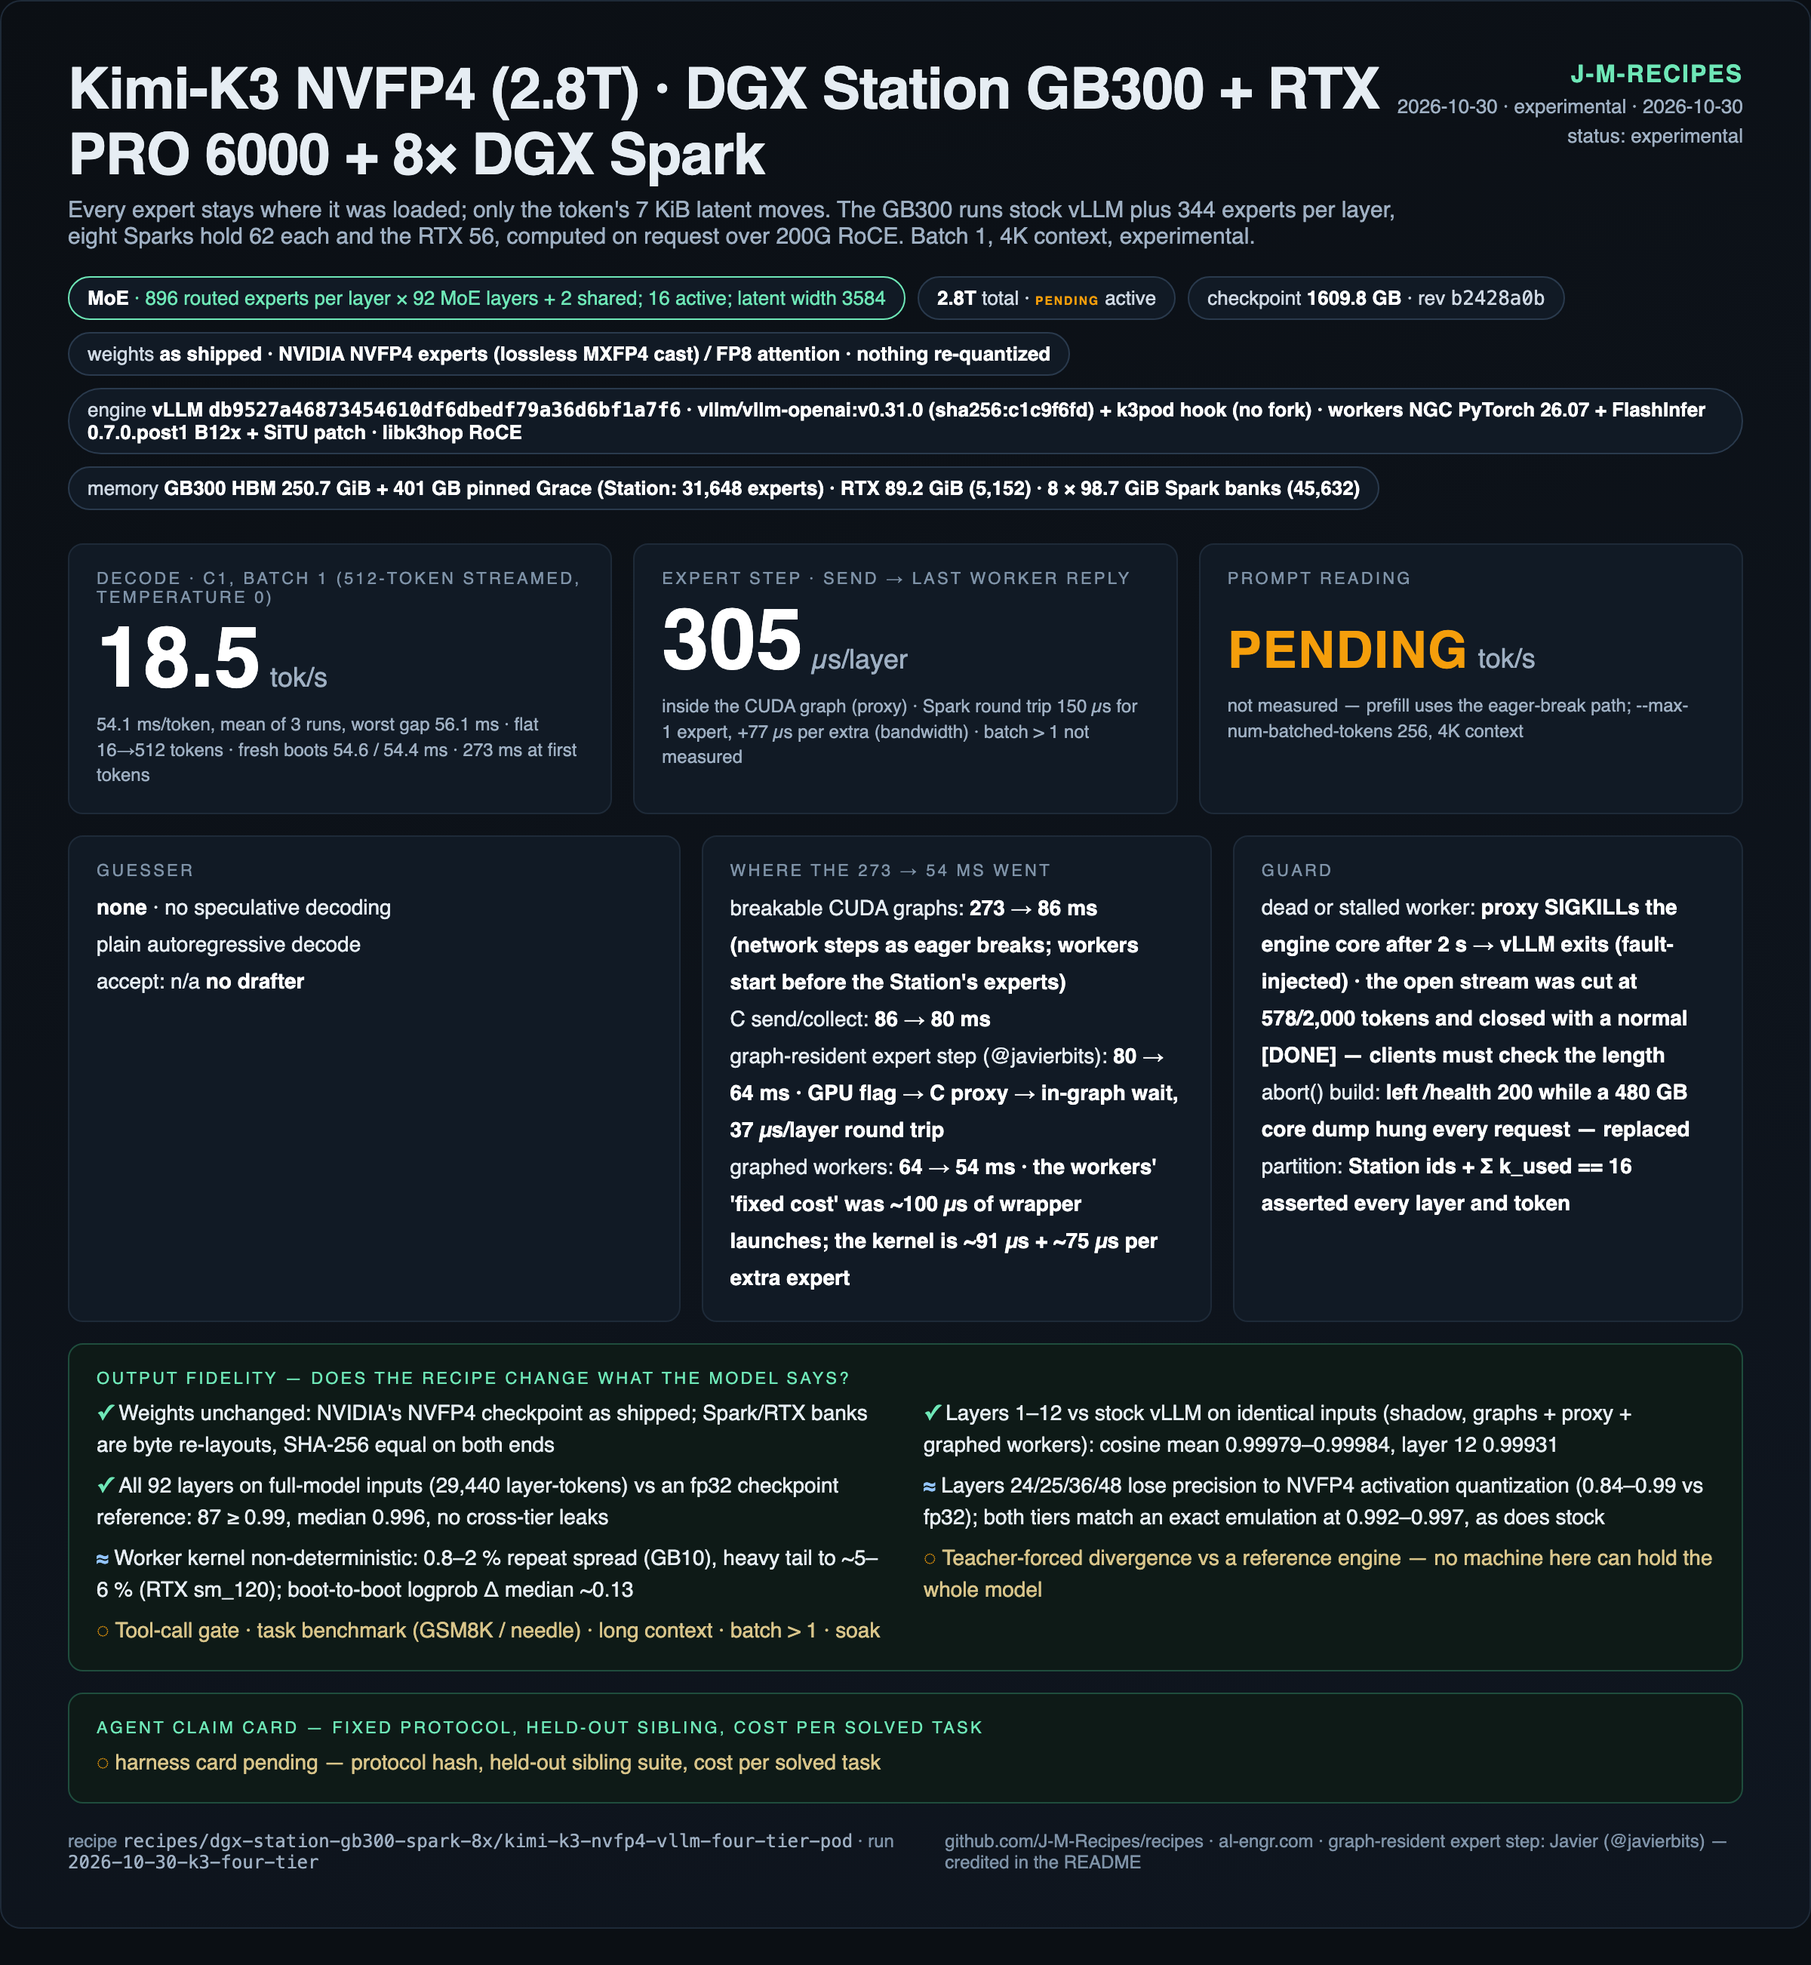
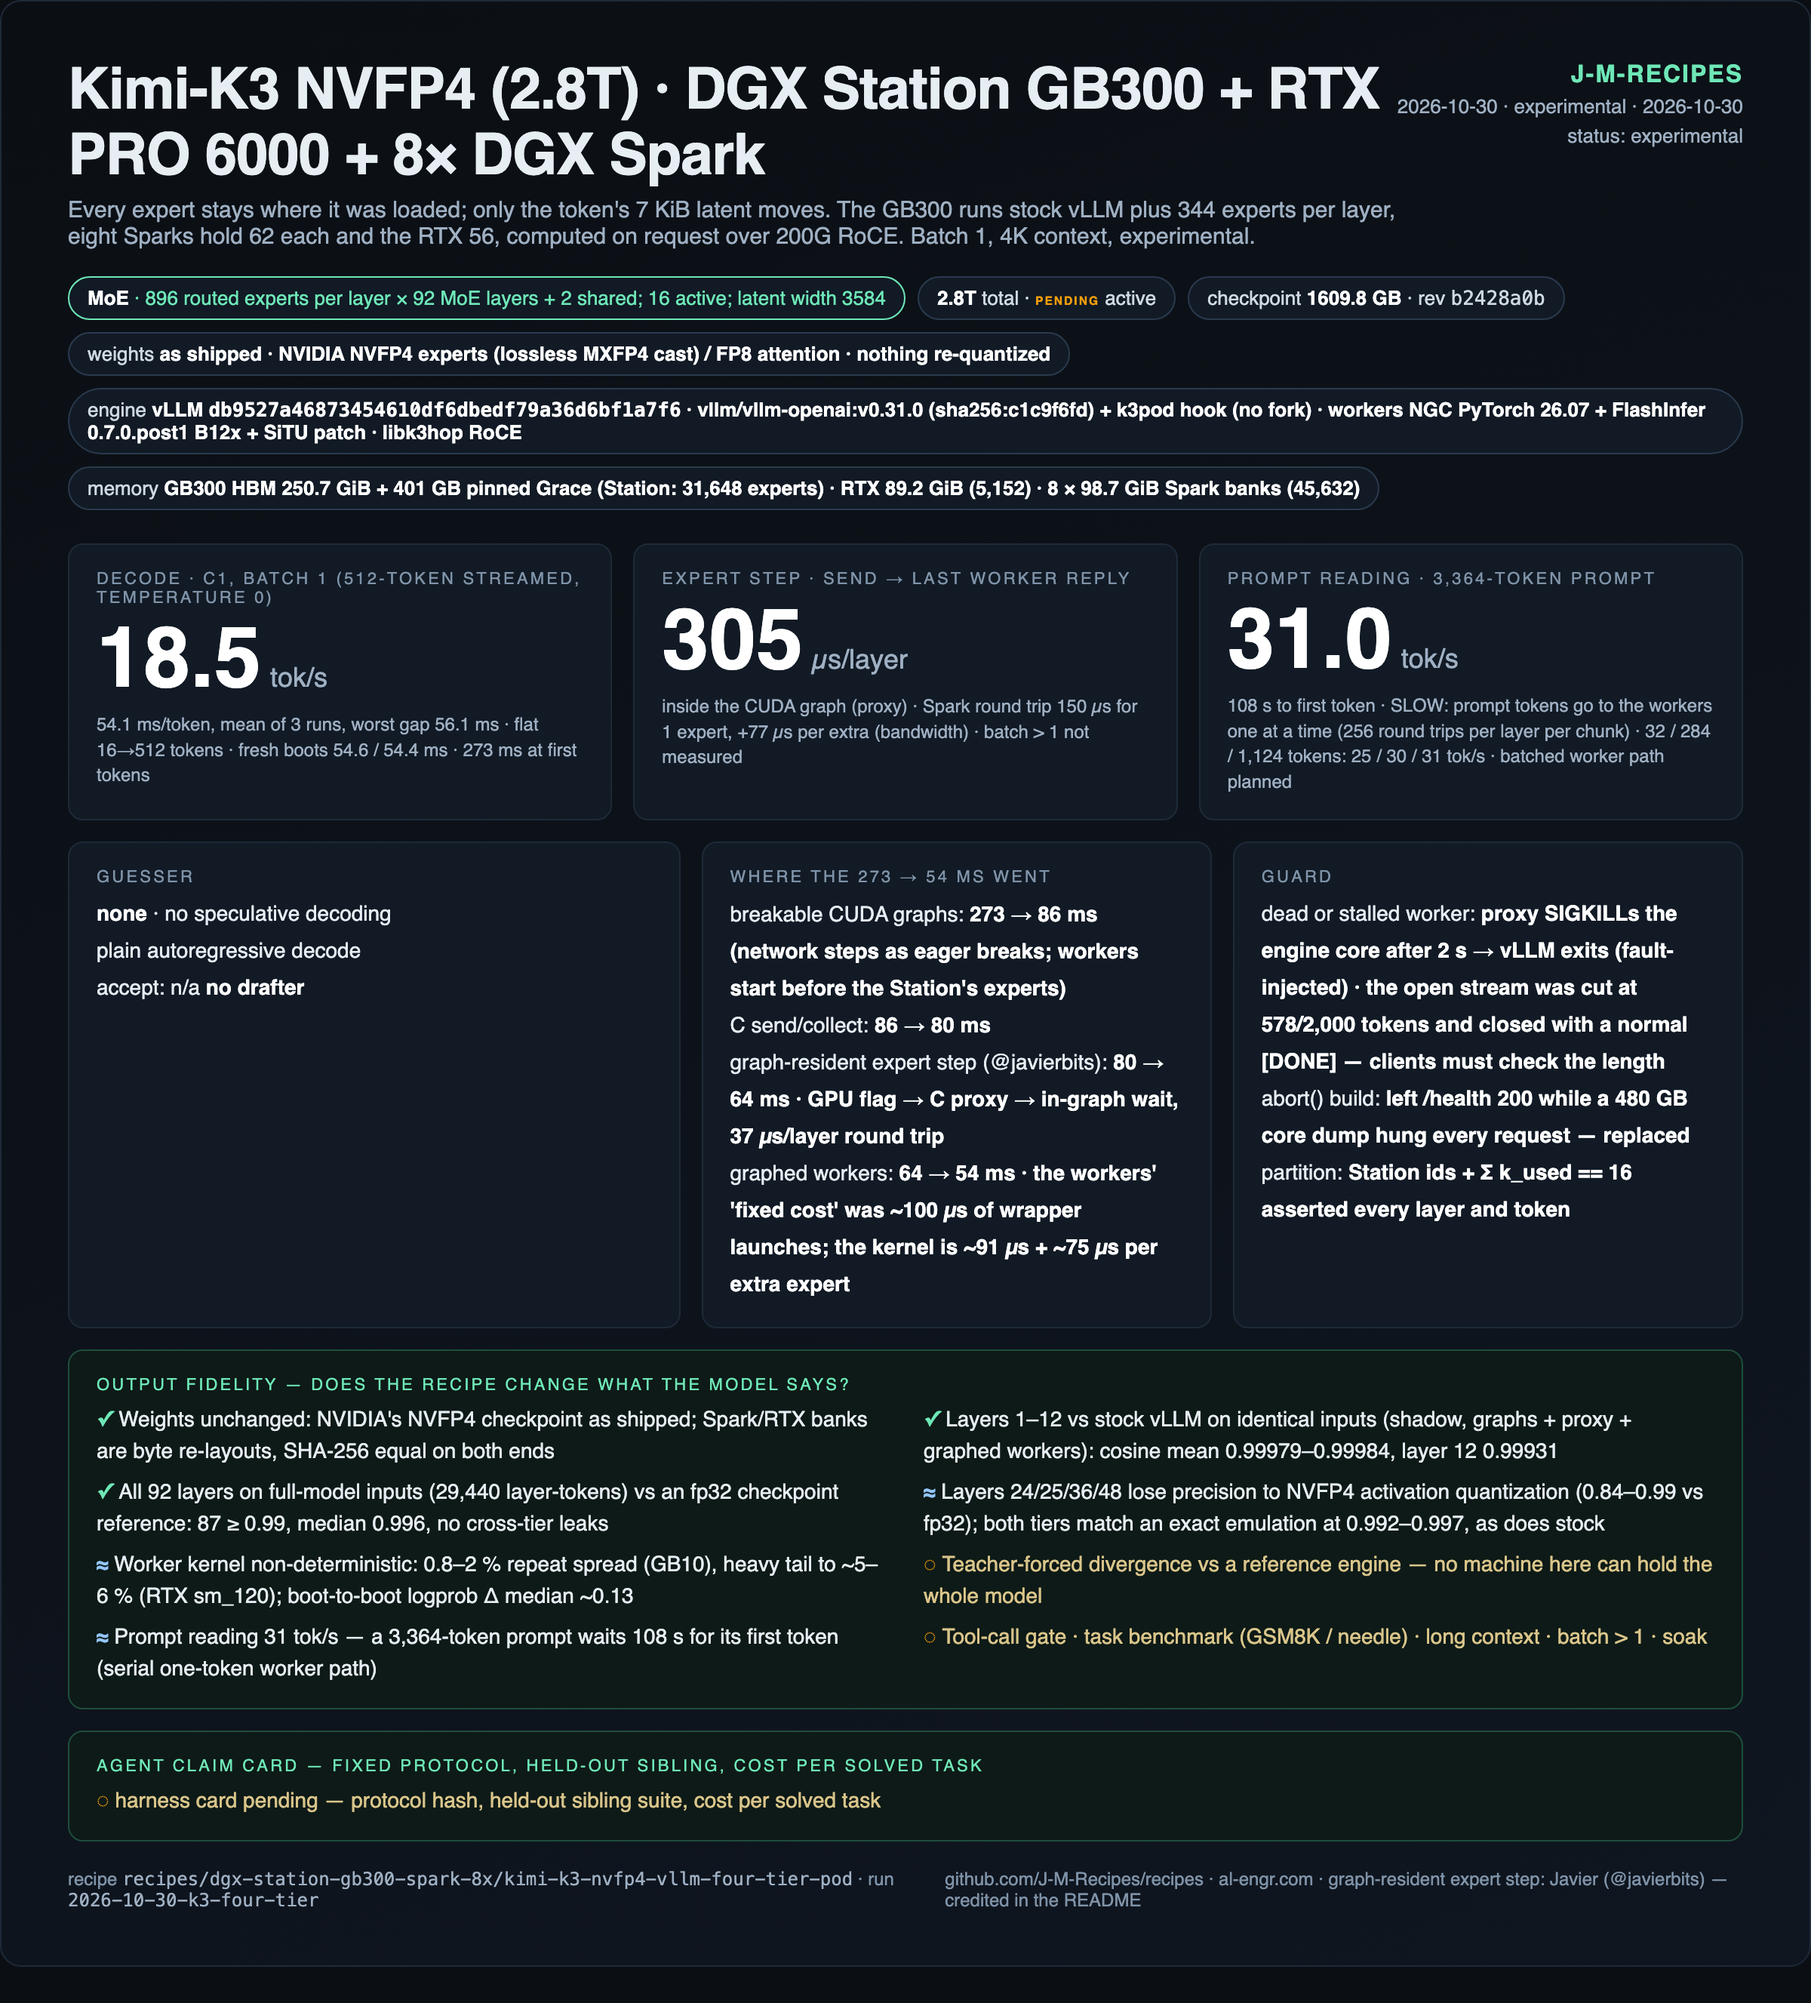
kimi-k3 four-tier: measure prompt reading (31 tok/s; 3,364-token prompt 108 s TTFT) and explain the one-token worker path

diff --git a/recipes/dgx-station-gb300-spark-8x/kimi-k3-nvfp4-vllm-four-tier-pod/card.html b/recipes/dgx-station-gb300-spark-8x/kimi-k3-nvfp4-vllm-four-tier-pod/card.html
@@ -59,7 +59,7 @@
   <div class="grid">
 <div class="box"><div class="lbl">Decode · C1, batch 1 (512-token streamed, temperature 0)</div><div class="hero">18.5<small>tok/s</small></div><div class="note">54.1 ms/token, mean of 3 runs, worst gap 56.1 ms · flat 16→512 tokens · fresh boots 54.6 / 54.4 ms · 273 ms at first tokens</div></div>
 <div class="box"><div class="lbl">Expert step · send → last worker reply</div><div class="hero">305<small>µs/layer</small></div><div class="note">inside the CUDA graph (proxy) · Spark round trip 150 µs for 1 expert, +77 µs per extra (bandwidth) · batch &gt; 1 not measured</div></div>
-<div class="box"><div class="lbl">Prompt reading</div><div class="hero"><span class="pend-inline">PENDING</span><small>tok/s</small></div><div class="note">not measured — prefill uses the eager-break path; --max-num-batched-tokens 256, 4K context</div></div>
+<div class="box"><div class="lbl">Prompt reading · 3,364-token prompt</div><div class="hero">31.0<small>tok/s</small></div><div class="note">108 s to first token · SLOW: prompt tokens go to the workers one at a time (256 round trips per layer per chunk) · 32 / 284 / 1,124 tokens: 25 / 30 / 31 tok/s · batched worker path planned</div></div>
   </div>
   <div class="row2">
 <div class="box"><div class="lbl">Guesser</div><div class="kv"><b>none</b> · no speculative decoding<br>plain autoregressive decode<br><span class="acc">accept: <span>n/a <b>no drafter</b></span></span></div></div>
@@ -74,6 +74,7 @@
 <li class="meas">Layers 24/25/36/48 lose precision to NVFP4 activation quantization (0.84–0.99 vs fp32); both tiers match an exact emulation at 0.992–0.997, as does stock</li>
 <li class="meas">Worker kernel non-deterministic: 0.8–2 % repeat spread (GB10), heavy tail to ~5–6 % (RTX sm_120); boot-to-boot logprob Δ median ~0.13</li>
 <li class="pend">Teacher-forced divergence vs a reference engine — no machine here can hold the whole model</li>
+<li class="meas">Prompt reading 31 tok/s — a 3,364-token prompt waits 108 s for its first token (serial one-token worker path)</li>
 <li class="pend">Tool-call gate · task benchmark (GSM8K / needle) · long context · batch &gt; 1 · soak</li>
     </ul>
   </div>

diff --git a/recipes/dgx-station-gb300-spark-8x/kimi-k3-nvfp4-vllm-four-tier-pod/scripts/check/prefill_bench.py b/recipes/dgx-station-gb300-spark-8x/kimi-k3-nvfp4-vllm-four-tier-pod/scripts/check/prefill_bench.py
@@ -1,0 +1,16 @@
+import json, sys, time, urllib.request
+URL = "http://127.0.0.1:%s/v1/completions" % sys.argv[1]
+base = "The transistor was invented at Bell Labs in 1947 by Bardeen, Brattain and Shockley, and it changed electronics forever. "
+res = []
+for reps in (1, 10, 40, 120):
+    runs = []
+    for r in range(3):
+        p = base * reps + "Summarize: "
+        b = json.dumps({"model": "k3", "prompt": p, "max_tokens": 1, "temperature": 0}).encode()
+        t0 = time.time()
+        d = json.load(urllib.request.urlopen(urllib.request.Request(URL, b, {"Content-Type": "application/json"}), timeout=900))
+        runs.append(time.time() - t0); n = d["usage"]["prompt_tokens"]
+    m = sorted(runs)[1]
+    res.append({"prompt_tokens": n, "ttft_s": runs, "median_s": m, "tok_per_s": n / m})
+    print(f"prompt {n:5d} tok: TTFT median {m:7.2f} s -> {n/m:6.1f} tok/s  runs " + " ".join(f"{t:.2f}" for t in runs), flush=True)
+json.dump(res, open("./prefill-n93.json", "w"), indent=1)

diff --git a/recipes/dgx-station-gb300-spark-8x/kimi-k3-nvfp4-vllm-four-tier-pod/README.md b/recipes/dgx-station-gb300-spark-8x/kimi-k3-nvfp4-vllm-four-tier-pod/README.md
@@ -1,6 +1,7 @@
 # Kimi-K3 NVFP4 across four memory tiers — DGX Station GB300 + RTX PRO 6000 + 8× DGX Spark
 
 **Status: experimental (2026-10-30).** Batch-1 decode at **18.5 tok/s** (54.1 ms/token, flat 16→512 tokens).
+Prompt reading is slow: **31 tok/s** (a 3,364-token prompt waits 108 s for its first token).
 Every MoE layer checked against the checkpoint; no model-level quality gate yet (see [Known limits](#known-limits)).
 
 ![card](card.png)
@@ -100,6 +101,7 @@ GB300_UUID=GPU-... MODEL_DIR=/models/kimi-k3/nvidia-nvfp4-b2428a0b bash scripts/
 ```bash
 python3 scripts/check/k3pod_probe.py 30023 probe.json        # 3 greedy prompts, coherent text
 python3 scripts/check/bench.py 30023 128 3                    # expect ~54-55 ms/token
+python3 scripts/check/prefill_bench.py 30023                  # prompt reading; expect ~31 tok/s (this version)
 docker logs k3-pod-n93 2>&1 | grep "proxy:"                   # 'mean proxy work ~305 us' per layer
 ```
 
@@ -131,6 +133,7 @@ Run `2026-10-30-k3-four-tier`, reference box, `--max-num-seqs 1`, `--max-model-l
 | length sweep 16 / 64 / 128 / 256 / 512 tokens (gap p90) | 54.65 / 54.96 / 54.87 / 54.93 / 54.96 ms |
 | fresh boots (22:29, 23:05) | 54.57, 54.36 ms per token |
 | per layer: proxy send → last worker reply | 305 µs |
+| prompt reading, 32 / 284 / 1,124 / 3,364-token prompts (time to first token, median of 3) | 1.26 / 9.40 / 36.4 / 108.4 s → 25 / 30 / 31 / **31 tok/s** |
 | Spark round trip (graphed worker), k = 1 / 2 / 3 / 4 | 150 / 225 / 311 / 385 µs (v1: 244 / 312 / 398 / 469) |
 
 **Correctness**, per layer (the model-level gate is pending — see limits):
@@ -149,8 +152,12 @@ transcribed from session output, labelled; `raw/parity/`, `raw/fault-injection/`
 
 ## Known limits
 
-- **Batch 1, 4K context.** `--max-num-seqs 1 --max-model-len 4096 --max-num-batched-tokens 256`. Prefill and batch
-  2–8 decode use the eager-break path; neither was measured.
+- **Prompt reading is 31 tok/s.** Prompt tokens leave the Station one at a time: send token *t*, wait for every
+  worker, send *t+1*, and each worker runs a one-token kernel. A 256-token chunk is 256 serial round trips per layer
+  (~73 ms of waiting per layer vs ~0.3 ms in decode), and no expert's weights are reused across tokens. Planned fix:
+  one message per worker per chunk, one grouped kernel call (`scripts/check/prefill_bench.py` measures it).
+- **Batch 1, 4K context.** `--max-num-seqs 1 --max-model-len 4096 --max-num-batched-tokens 256`. Batch 2–8 decode
+  takes the same one-token path and was not measured.
 - **No model-level quality gate.** No teacher-forced comparison with a reference engine, no tool-call gate, no task
   benchmark: no machine here can hold a stock copy of the whole model. Evidence is per layer (above).
 - **NVFP4 precision at low-magnitude layers** (24, 25, 36, 48; layer 12 carries ~0.2 % of its input) — matched by an

diff --git a/recipes/dgx-station-gb300-spark-8x/kimi-k3-nvfp4-vllm-four-tier-pod/results/2026-10-30-k3-four-tier/README.md b/recipes/dgx-station-gb300-spark-8x/kimi-k3-nvfp4-vllm-four-tier-pod/results/2026-10-30-k3-four-tier/README.md
@@ -14,5 +14,6 @@ Times are CDT unless a log line says otherwise (vLLM logs are UTC: 01:13 UTC = 2
 | `raw/worker/g3-*.json` | Station→worker round trip by forced expert count (`spark0` v1 eager worker n=400/k; `spark0-wgraph` graphed n=300/k; `rtx0`) | original |
 | `raw/worker/a5-*.json` | Spark-tier-only replay of real routing (36.5 ms/token p50 with GC frozen) | original |
 | `raw/fabric/` | RDMA half-RTT by Spark and fan-out (switch placement) | original |
+| `raw/prefill-n93.json`, `.txt`, `raw/server-logs/prefill-n93.worker-lines.log` | prompt reading by prompt length (2026-10-31 00:05); per-layer wait and per-worker arrival during it | original |
 | `raw/fault-injection/` | two runs killing a Spark worker mid-decode; `README.md` there | original |
 | `system.json`, `system/*.json` | `collect_system_snapshot.sh` on the Station and all eight Sparks | original |
